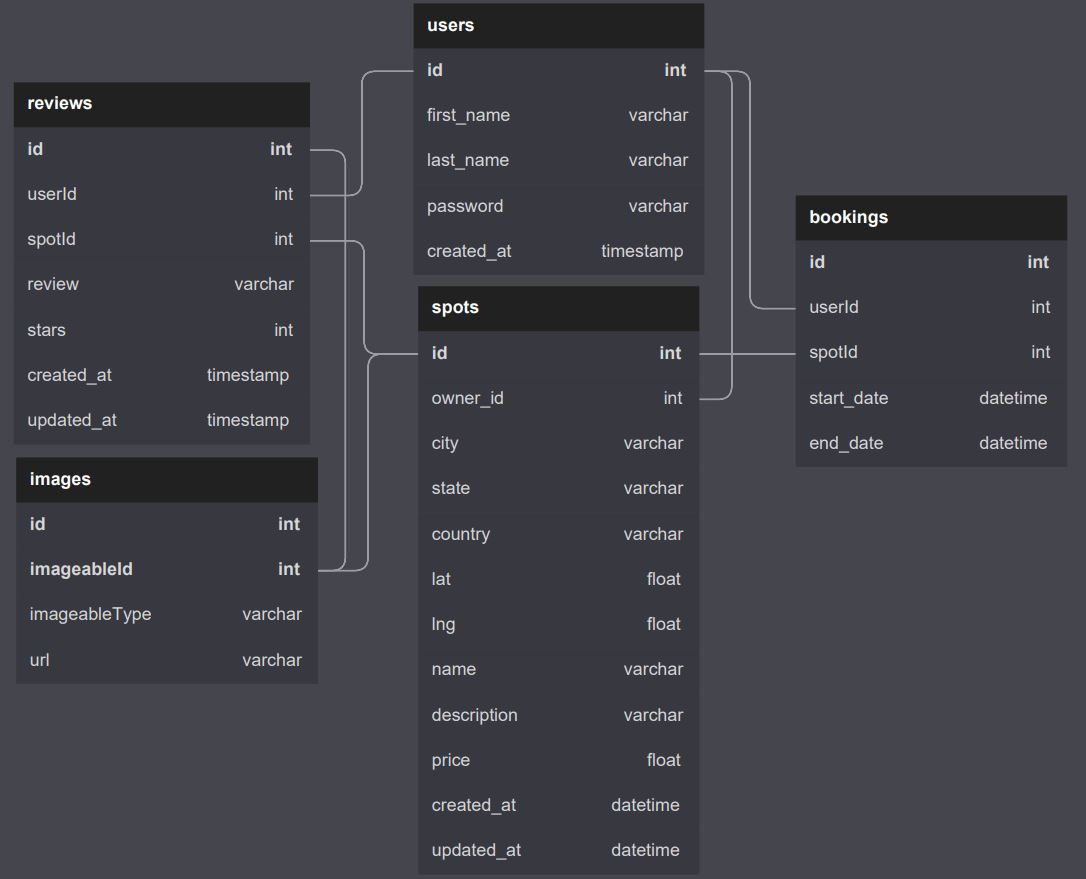
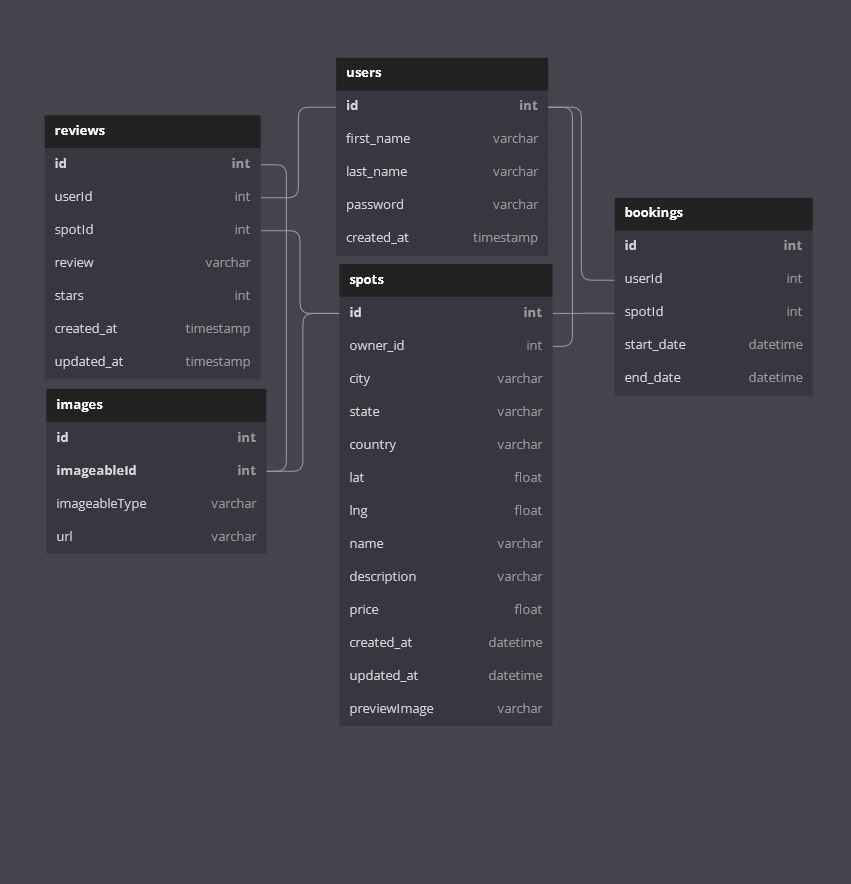
correct somethings

diff --git a/backend/routes/api/review.js b/backend/routes/api/review.js
@@ -27,36 +27,30 @@ const validateReviewInsert = [
 router.get("/me", requireAuth, async (req, res) => {
   const reviewsData = await Review.findAll({ where: { userId: req.user.id} })
 
-  if(!reviewsData){
+  if(reviewsData.length <= 0){
     return res.status(404).json({message: "no reviews were found"})
   }
 
   const Reviews = []
 
-  const user = await User.findOne({
-      where: {
-         id: req.user.id,
-       },
-     });
+  const user = await User.findByPk(req.user.id);
+  console.log(user)
+
   for(const review of reviewsData){
 
-    const spot = await Spot.findOne({
-      where: {
-        id: review.dataValues.spotId
-      }
-    })
+    
+    const spot = await Spot.findOne({ where: { id: review.dataValues.spotId }})
 
-    const image = await Image.findAll({
-      where: {
-        imageableId: review.dataValues.id,
-        imageableType: "review"
-      }
-    })
+    const images = await Image.findAll({ where: { imageableId: review.dataValues.id, imageableType: "review"}})
 
     let ImageArr = [];
-    image.forEach((image) => {
+
+    if (images > 0) {
+      images.forEach((image) => {
           ImageArr.push(image.url);
-    });
+      });
+  }
+
 
     const obj = {
       id: review.dataValues.id,
@@ -67,12 +61,12 @@ router.get("/me", requireAuth, async (req, res) => {
       createdAt: review.dataValues.createdAt,
       updatedAt: review.dataValues.updatedAt,
       User: {
-        id: user.id,
-        firstName: user.firstName,
-        lastName: user.LastName
+        id: user.dataValues.id,
+        firstName: user.dataValues.firstName,
+        lastName: user.dataValues.LastName
       },
       Spot: {
-        id: spot.id,
+        id: spot.dataValues.id,
         ownerId: spot.ownerId,
         address: spot.address,
         city: spot.city,
@@ -81,7 +75,8 @@ router.get("/me", requireAuth, async (req, res) => {
         lat: spot.lat,
         lng: spot.lng,
         name: spot.name,
-        price: spot.price
+        price: spot.price,
+        previewImage: spot.previewImage
       },
       images: ImageArr
 

diff --git a/backend/routes/api/spot.js b/backend/routes/api/spot.js
@@ -44,6 +44,10 @@ const validateSpotInsert = [
   check("name")
     .exists({ checkFalsy: true })
     .isString()
+    .custom((value)=>{
+      if(value.length >50)return false
+      else return true
+    })
     .withMessage("Name must be less than 50 characters"),
   check("description")
     .exists({ checkFalsy: true })
@@ -160,7 +164,7 @@ router.get("/", validateSpotsQuery, async (req, res) => {
 });
 
 router.post("/", requireAuth, validateSpotInsert, async (req, res) => {
-  const { address, city, state, country, lat, lng, name, description, price } =
+  const { address, city, state, country, lat, lng, name, description, price, previewImage } =
     req.body;
 
   let returnObj;
@@ -177,12 +181,13 @@ router.post("/", requireAuth, validateSpotInsert, async (req, res) => {
       name: name,
       description: description,
       price: price,
+      previewImage: previewImage,
     });
     returnObj = newSpot;
   } catch {
     return res.status(400).json({ error: "Error creating spot" });
   }
-  return res.json(returnObj);
+  return res.status(201).json(returnObj);
 });
 
 router.get("/me", requireAuth, async (req, res) => {

diff --git a/backend/routes/api/user.js b/backend/routes/api/user.js
@@ -27,6 +27,17 @@ const validateSignup = [
     .withMessage("Password must be 6 characters or more."),
   handleValidationErrors,
 ];
+
+router.get("/Me", requireAuth, async (req,res) => {
+  return res.json({
+    id: req.user.id,
+    firstName: req.user.firstName,
+    lastName: req.user.lastName,
+    email: req.user.email,
+  })
+})
+
+
 // TODO: ask baylen if I can keep this endpoint as including a username and update readme. My readme doesnt have the username but its easier if I just include it
 
 // Sign up

diff --git a/backend/db/models/image.js b/backend/db/models/image.js
@@ -25,7 +25,7 @@ module.exports = (sequelize, DataTypes) => {
       imageableId: DataTypes.INTEGER,
       imageableType: {
         type: DataTypes.ENUM,
-        values: ["spot", "review", "spotPreview"],
+        values: ["spot", "review"]
       },
       url: DataTypes.STRING,
     },

diff --git a/README.md b/README.md
@@ -365,7 +365,8 @@ Creates and returns a new spot.
       "lng": -122.4730327,
       "name": "App Academy",
       "description": "Place where web developers are created",
-      "price": 123
+      "price": 123,
+      "previewImage": "https://www.google.com/someimage/someimage.jpg",
     }
     ```
 
@@ -388,6 +389,7 @@ Creates and returns a new spot.
       "name": "App Academy",
       "description": "Place where web developers are created",
       "price": 123,
+      "previewImage": "https://www.google.com/someimage/someimage.jpg",
       "createdAt": "2021-11-19 20:39:36",
       "updatedAt": "2021-11-19 20:39:36"
     }
@@ -440,7 +442,8 @@ Updates and returns an existing spot.
       "lng": -122.4730327,
       "name": "App Academy",
       "description": "Place where web developers are created",
-      "price": 123
+      "price": 123,
+      "previewImage": "http://google.com/someplace.jpg",
     }
     ```
 
@@ -463,6 +466,7 @@ Updates and returns an existing spot.
       "name": "App Academy",
       "description": "Place where web developers are created",
       "price": 123,
+      "previewImage": "http://google.com/someplace.jpg",
       "createdAt": "2021-11-19 20:39:36",
       "updatedAt": "2021-11-20 10:06:40"
     }
